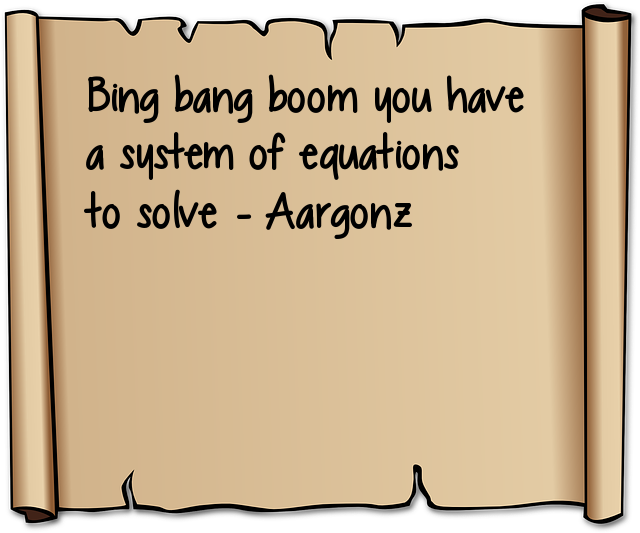
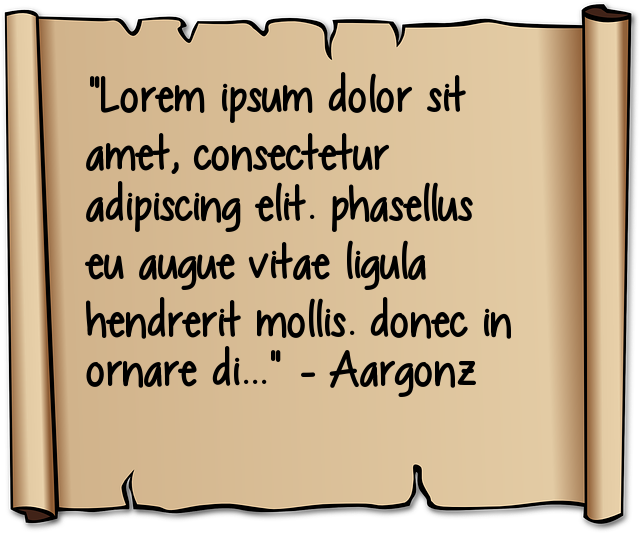
Tweak positioning, sizing, and text wrap for quote

Changed region(s): [[0.125, 0.1201, 0.8125, 0.7505], [0.4688, 0.6604, 0.75, 0.7505], [0.4062, 0.6604, 0.4375, 0.6904]]

diff --git a/cogs/images.py b/cogs/images.py
@@ -18,7 +18,7 @@ def build_quote(quote: str, author):
         quote = quote[0:max_len] + "..."
 
     if author is not None:
-        quote = quote.capitalize() + f" - {author.name.capitalize()}"
+        quote = '"' + quote.capitalize() + '"' + f" - {author.display_name.capitalize()}"
 
     scroll_path = "resources/scroll.png"
     scroll = Image.open(fp=scroll_path)
@@ -31,7 +31,7 @@ def build_quote(quote: str, author):
     d = ImageDraw.Draw(im=img, mode="RGBA")
 
     quote_coords = [75, 65]  # [536, 449]
-    quote_width = 23
+    quote_width = 27
 
     # font_path = "resources/Canterbury.ttf"
     # font_path = "resources/Olde English Regular.ttf"
